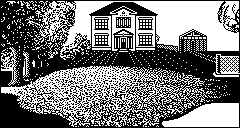
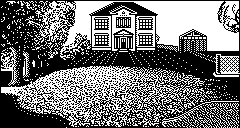
Added the description bubble for 16 of the missing scenes (all the area around the mansion is now done) Moved the "." character by one pixel down. Added a "Wait" command to delay the execution of script commands Improved a couple images

diff --git a/users/dbug/UpgradeTime/Encounter/FloppyBuilderVersion/code/game_data.c b/users/dbug/UpgradeTime/Encounter/FloppyBuilderVersion/code/game_data.c
@@ -18,29 +18,29 @@ location gLocations[e_LOCATION_COUNT_] =
 { //  North                          South                          East                           West                           Up                             Down                          Description
     { e_LOCATION_DARKTUNNEL        , e_LOCATION_NONE              , e_LOCATION_DARKALLEY         , e_LOCATION_NONE              , e_LOCATION_NONE              , e_LOCATION_NONE              , "You are in a deserted market square"     ,gDescriptionMarketPlace},       // e_LOCATION_MARKETPLACE    
     { e_LOCATION_MAINSTREET        , e_LOCATION_NONE              , e_LOCATION_ROAD              , e_LOCATION_MARKETPLACE       , e_LOCATION_NONE              , e_LOCATION_NONE              , "You are in a dark, seedy alley"          ,gDescriptionDarkAlley},         // e_LOCATION_DARKALLEY      
-    { e_LOCATION_NARROWPATH        , e_LOCATION_NONE              , e_LOCATION_NONE              , e_LOCATION_DARKALLEY         , e_LOCATION_NONE              , e_LOCATION_NONE              , "A long road stretches ahead of you"      ,0},                             // e_LOCATION_ROAD      
+    { e_LOCATION_NARROWPATH        , e_LOCATION_NONE              , e_LOCATION_NONE              , e_LOCATION_DARKALLEY         , e_LOCATION_NONE              , e_LOCATION_NONE              , "A long road stretches ahead of you"      ,gDescriptionRoad},              // e_LOCATION_ROAD      
 
     { e_LOCATION_WOODEDAVENUE      , e_LOCATION_MARKETPLACE       , e_LOCATION_NONE              , e_LOCATION_NONE              , e_LOCATION_NONE              , e_LOCATION_NONE              , "You are in a dark, damp tunnel"          ,gDescriptionDarkTunel},         // e_LOCATION_DARKTUNNEL     
-    { e_LOCATION_GRAVELDRIVE       , e_LOCATION_DARKALLEY         , e_LOCATION_NARROWPATH        , e_LOCATION_NONE              , e_LOCATION_NONE              , e_LOCATION_NONE              , "You are on the main street"              ,0},                             // e_LOCATION_MAINSTREET     
-    { e_LOCATION_TARMACAREA        , e_LOCATION_ROAD              , e_LOCATION_INSIDEHOLE        , e_LOCATION_MAINSTREET        , e_LOCATION_NONE              , e_LOCATION_NONE              , "You are on a narrow path"                ,0},                             // e_LOCATION_NARROWPATH     
+    { e_LOCATION_GRAVELDRIVE       , e_LOCATION_DARKALLEY         , e_LOCATION_NARROWPATH        , e_LOCATION_NONE              , e_LOCATION_NONE              , e_LOCATION_NONE              , "You are on the main street"              ,gDescriptionMainStreet},        // e_LOCATION_MAINSTREET     
+    { e_LOCATION_TARMACAREA        , e_LOCATION_ROAD              , e_LOCATION_INSIDEHOLE        , e_LOCATION_MAINSTREET        , e_LOCATION_NONE              , e_LOCATION_NONE              , "You are on a narrow path"                ,gDescriptionNarrowPath},        // e_LOCATION_NARROWPATH     
 
-    { e_LOCATION_NONE              , e_LOCATION_NONE              , e_LOCATION_NONE              , e_LOCATION_NONE              , e_LOCATION_NONE              , e_LOCATION_NONE              , "You have fallen into a deep pit"         ,0},                             // e_LOCATION_INSIDEHOLE
-    { e_LOCATION_NONE              , e_LOCATION_NONE              , e_LOCATION_WOODEDAVENUE      , e_LOCATION_NONE              , e_LOCATION_NONE              , e_LOCATION_NONE              , "You are near to an old-fashioned well"   ,0},                             // e_LOCATION_WELL           
-    { e_LOCATION_ZENGARDEN         , e_LOCATION_DARKTUNNEL        , e_LOCATION_GRAVELDRIVE       , e_LOCATION_WELL              , e_LOCATION_NONE              , e_LOCATION_NONE              , "You are in a wooded avenue"              ,0},                             // e_LOCATION_WOODEDAVENUE   
+    { e_LOCATION_NONE              , e_LOCATION_NONE              , e_LOCATION_NONE              , e_LOCATION_NONE              , e_LOCATION_NONE              , e_LOCATION_NONE              , "You have fallen into a deep pit"         ,gDescriptionInThePit},          // e_LOCATION_INSIDEHOLE
+    { e_LOCATION_NONE              , e_LOCATION_NONE              , e_LOCATION_WOODEDAVENUE      , e_LOCATION_NONE              , e_LOCATION_NONE              , e_LOCATION_NONE              , "You are near to an old-fashioned well"   ,gDescriptionOldWell},           // e_LOCATION_WELL           
+    { e_LOCATION_ZENGARDEN         , e_LOCATION_DARKTUNNEL        , e_LOCATION_GRAVELDRIVE       , e_LOCATION_WELL              , e_LOCATION_NONE              , e_LOCATION_NONE              , "You are in a wooded avenue"              ,gDescriptionWoodedAvenue},      // e_LOCATION_WOODEDAVENUE   
 
-    { e_LOCATION_LAWN              , e_LOCATION_MAINSTREET        , e_LOCATION_TARMACAREA        , e_LOCATION_WOODEDAVENUE      , e_LOCATION_NONE              , e_LOCATION_NONE              , "You are on a wide gravel drive"          ,0},                             // e_LOCATION_GRAVELDRIVE   
-    { e_LOCATION_GREENHOUSE        , e_LOCATION_NARROWPATH        , e_LOCATION_NONE              , e_LOCATION_GRAVELDRIVE       , e_LOCATION_NONE              , e_LOCATION_NONE              , "You are in an open area of tarmac"       ,0},                             // e_LOCATION_TARMACAREA      
-    { e_LOCATION_TENNISCOURT       , e_LOCATION_WOODEDAVENUE      , e_LOCATION_NONE              , e_LOCATION_NONE              , e_LOCATION_NONE              , e_LOCATION_NONE              , "You are in a relaxing zen garden"        ,0},                             // e_LOCATION_ZENGARDEN       
+    { e_LOCATION_LAWN              , e_LOCATION_MAINSTREET        , e_LOCATION_TARMACAREA        , e_LOCATION_WOODEDAVENUE      , e_LOCATION_NONE              , e_LOCATION_NONE              , "You are on a wide gravel drive"          ,gDescriptionGravelDrive},       // e_LOCATION_GRAVELDRIVE   
+    { e_LOCATION_GREENHOUSE        , e_LOCATION_NARROWPATH        , e_LOCATION_NONE              , e_LOCATION_GRAVELDRIVE       , e_LOCATION_NONE              , e_LOCATION_NONE              , "You are in an open area of tarmac"       ,gDescriptionTarmacArea},        // e_LOCATION_TARMACAREA      
+    { e_LOCATION_TENNISCOURT       , e_LOCATION_WOODEDAVENUE      , e_LOCATION_NONE              , e_LOCATION_NONE              , e_LOCATION_NONE              , e_LOCATION_NONE              , "You are in a relaxing zen garden"        ,gDescriptionZenGarden},         // e_LOCATION_ZENGARDEN       
 
-    { e_LOCATION_ENTRANCEHALL      , e_LOCATION_GRAVELDRIVE       , e_LOCATION_GREENHOUSE        , e_LOCATION_NONE              , e_LOCATION_NONE              , e_LOCATION_NONE              , "You are on a huge area of lawn"          ,0},                             // e_LOCATION_LAWN  
-    { e_LOCATION_VEGSGARDEN        , e_LOCATION_TARMACAREA        , e_LOCATION_NONE              , e_LOCATION_LAWN              , e_LOCATION_NONE              , e_LOCATION_NONE              , "You are in a small greenhouse"           ,0},                             // e_LOCATION_GREENHOUSE      
-    { e_LOCATION_FISHPND           , e_LOCATION_ZENGARDEN         , e_LOCATION_NONE              , e_LOCATION_NONE              , e_LOCATION_NONE              , e_LOCATION_NONE              , "You are on a lawn tennis court"          ,0},                             // e_LOCATION_TENNISCOURT     
+    { e_LOCATION_ENTRANCEHALL      , e_LOCATION_GRAVELDRIVE       , e_LOCATION_GREENHOUSE        , e_LOCATION_NONE              , e_LOCATION_NONE              , e_LOCATION_NONE              , "You are on a huge area of lawn"          ,gDescriptionFrontLawn},         // e_LOCATION_LAWN  
+    { e_LOCATION_VEGSGARDEN        , e_LOCATION_TARMACAREA        , e_LOCATION_NONE              , e_LOCATION_LAWN              , e_LOCATION_NONE              , e_LOCATION_NONE              , "You are in a small greenhouse"           ,gDescriptionGreenHouse},        // e_LOCATION_GREENHOUSE      
+    { e_LOCATION_FISHPND           , e_LOCATION_ZENGARDEN         , e_LOCATION_NONE              , e_LOCATION_NONE              , e_LOCATION_NONE              , e_LOCATION_NONE              , "You are on a lawn tennis court"          ,gDescriptionTennisCourt},       // e_LOCATION_TENNISCOURT     
 
-    { e_LOCATION_APPLE_TREES       , e_LOCATION_GREENHOUSE        , e_LOCATION_NONE              , e_LOCATION_NONE              , e_LOCATION_NONE              , e_LOCATION_NONE              , "You are in a vegetable plot"             ,0},                             // e_LOCATION_VEGSGARDEN   
-    { e_LOCATION_NONE              , e_LOCATION_TENNISCOURT       , e_LOCATION_TILEDPATIO        , e_LOCATION_NONE              , e_LOCATION_NONE              , e_LOCATION_NONE              , "You are standing by a fish pond"         ,0},                             // e_LOCATION_FISHPND         
-    { e_LOCATION_SUNLOUNGE         , e_LOCATION_SUNLOUNGE         , e_LOCATION_APPLE_TREES       , e_LOCATION_FISHPND           , e_LOCATION_NONE              , e_LOCATION_NONE              , "You are on a tiled patio"                ,0},                             // e_LOCATION_TILEDPATIO - and above it is a barred window 
+    { e_LOCATION_APPLE_TREES       , e_LOCATION_GREENHOUSE        , e_LOCATION_NONE              , e_LOCATION_NONE              , e_LOCATION_NONE              , e_LOCATION_NONE              , "You are in a vegetable plot"             ,gDescriptionVegetableGarden},   // e_LOCATION_VEGSGARDEN   
+    { e_LOCATION_NONE              , e_LOCATION_TENNISCOURT       , e_LOCATION_TILEDPATIO        , e_LOCATION_NONE              , e_LOCATION_NONE              , e_LOCATION_NONE              , "You are standing by a fish pond"         ,gDescriptionFishPond},          // e_LOCATION_FISHPND         
+    { e_LOCATION_SUNLOUNGE         , e_LOCATION_SUNLOUNGE         , e_LOCATION_APPLE_TREES       , e_LOCATION_FISHPND           , e_LOCATION_NONE              , e_LOCATION_NONE              , "You are on a tiled patio"                ,gDescriptionTiledPatio},        // e_LOCATION_TILEDPATIO - and above it is a barred window 
 
-    { e_LOCATION_NONE              , e_LOCATION_VEGSGARDEN        , e_LOCATION_NONE              , e_LOCATION_TILEDPATIO        , e_LOCATION_NONE              , e_LOCATION_NONE              , "You are in an apple orchard"             ,0},                             // e_LOCATION_APPLE_TREES     
+    { e_LOCATION_NONE              , e_LOCATION_VEGSGARDEN        , e_LOCATION_NONE              , e_LOCATION_TILEDPATIO        , e_LOCATION_NONE              , e_LOCATION_NONE              , "You are in an apple orchard"             ,gDescriptionAppleOrchard},      // e_LOCATION_APPLE_TREES     
     { e_LOCATION_CELLAR            , e_LOCATION_NONE              , e_LOCATION_NONE              , e_LOCATION_NONE              , e_LOCATION_NONE              , e_LOCATION_NONE              , "This room is even darker than the last"  ,0},                             // e_LOCATION_DARKCELLARROOM   
     { e_LOCATION_NONE              , e_LOCATION_DARKCELLARROOM    , e_LOCATION_NONE              , e_LOCATION_NONE              , e_LOCATION_KITCHEN           , e_LOCATION_NONE              , "This is a cold, damp cellar"             ,0},                             // e_LOCATION_CELLAR           
 

diff --git a/users/dbug/UpgradeTime/Encounter/FloppyBuilderVersion/code/common.h b/users/dbug/UpgradeTime/Encounter/FloppyBuilderVersion/code/common.h
@@ -83,8 +83,22 @@ extern char gDescriptionTeenagerRoom[];
 extern char gDescriptionDarkTunel[];
 extern char gDescriptionMarketPlace[];
 extern char gDescriptionDarkAlley[];
-
-
+extern char gDescriptionRoad[];
+extern char gDescriptionMainStreet[];
+extern char gDescriptionNarrowPath[];
+extern char gDescriptionInThePit[];
+extern char gDescriptionTarmacArea[];
+extern char gDescriptionOldWell[];
+extern char gDescriptionWoodedAvenue[];
+extern char gDescriptionGravelDrive[];
+extern char gDescriptionZenGarden[];
+extern char gDescriptionFrontLawn[];
+extern char gDescriptionGreenHouse[];
+extern char gDescriptionTennisCourt[];
+extern char gDescriptionVegetableGarden[];
+extern char gDescriptionFishPond[];
+extern char gDescriptionTiledPatio[];
+extern char gDescriptionAppleOrchard[];
 
 /*
 ;

diff --git a/users/dbug/UpgradeTime/Encounter/FloppyBuilderVersion/code/game_main.c b/users/dbug/UpgradeTime/Encounter/FloppyBuilderVersion/code/game_main.c
@@ -450,7 +450,7 @@ void Initializations()
 
 #ifdef TESTING_MODE
 	// Add here any change to the scenario to easily check things
-	gCurrentLocation =e_LOCATION_DARKALLEY;
+	gCurrentLocation =e_LOCATION_APPLE_TREES;
 	gItems[e_ITEM_PlasticBag].location = e_LOCATION_INVENTORY;
 #else
 	// In normal gameplay, the player starts from the marketplace with an empty inventory

diff --git a/users/dbug/UpgradeTime/Encounter/FloppyBuilderVersion/code/game_misc.c b/users/dbug/UpgradeTime/Encounter/FloppyBuilderVersion/code/game_misc.c
@@ -166,6 +166,18 @@ void HandleByteStream(const char* byteStream)
 				}
 				break;
 
+			case COMMAND_WAIT:
+				{
+					unsigned int delay = *byteStream++;
+					if (!delay)
+					{
+						delay <<= 8;
+						delay |= *byteStream++;
+					}
+					WaitFrames(delay);				
+				}
+				break;
+
 			default:			// That's not supposed to happen
 				Panic();
 				break;

diff --git a/users/dbug/UpgradeTime/Encounter/FloppyBuilderVersion/code/params.h b/users/dbug/UpgradeTime/Encounter/FloppyBuilderVersion/code/params.h
@@ -52,4 +52,5 @@
 #define COMMAND_FILL_RECTANGLE  2
 #define COMMAND_TEXT            3
 #define COMMAND_BUBBLE          4
+#define COMMAND_WAIT            5
 
